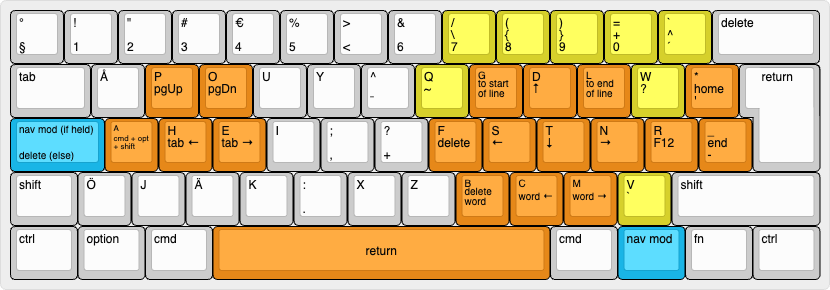
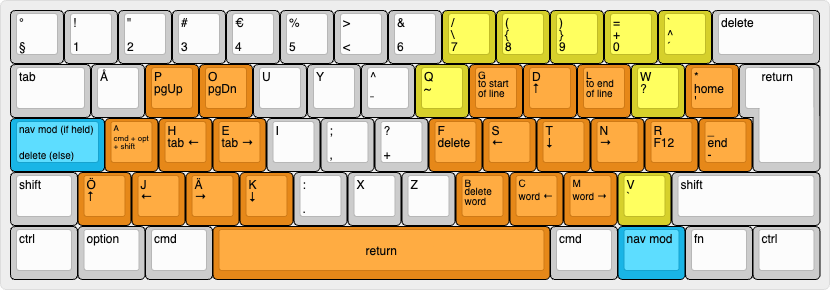
Add extra arrow keys to navigation layer
Add an extra way to access arrow keys through the navigation layer, so
that arrows can be used with only the left hand.

Changed region(s): [[0.0904, 0.5897, 0.3614, 0.7759]]

diff --git a/README.md b/README.md
@@ -125,6 +125,10 @@ To facilitate navigating in texts (and other applications where the arrow keys c
 | `B`                    | delete word to the left of the cursor | `option` + `delete`        |
 | `H`                    | go to previous tab (e.g. in browser)  | `ctrl` + `tab`             |
 | `E`                    | go to next tab (e.g. in browser)      | `shift` + `ctrl` + `tab`   |
+| `Ö`                    | up arrow                              | `↑`                        |
+| `J`                    | left arrow                            | `←`                        |
+| `Ä`                    | right arrow                           | `→`                        |
+| `K`                    | down arrow                            | `↓`                        |
 | `R`                    | `F12`                                 | `F12`                      |
 | `P`                    | page up                               | `pgUp`                     |
 | `O`                    | page down                             | `pgDn`                     |
